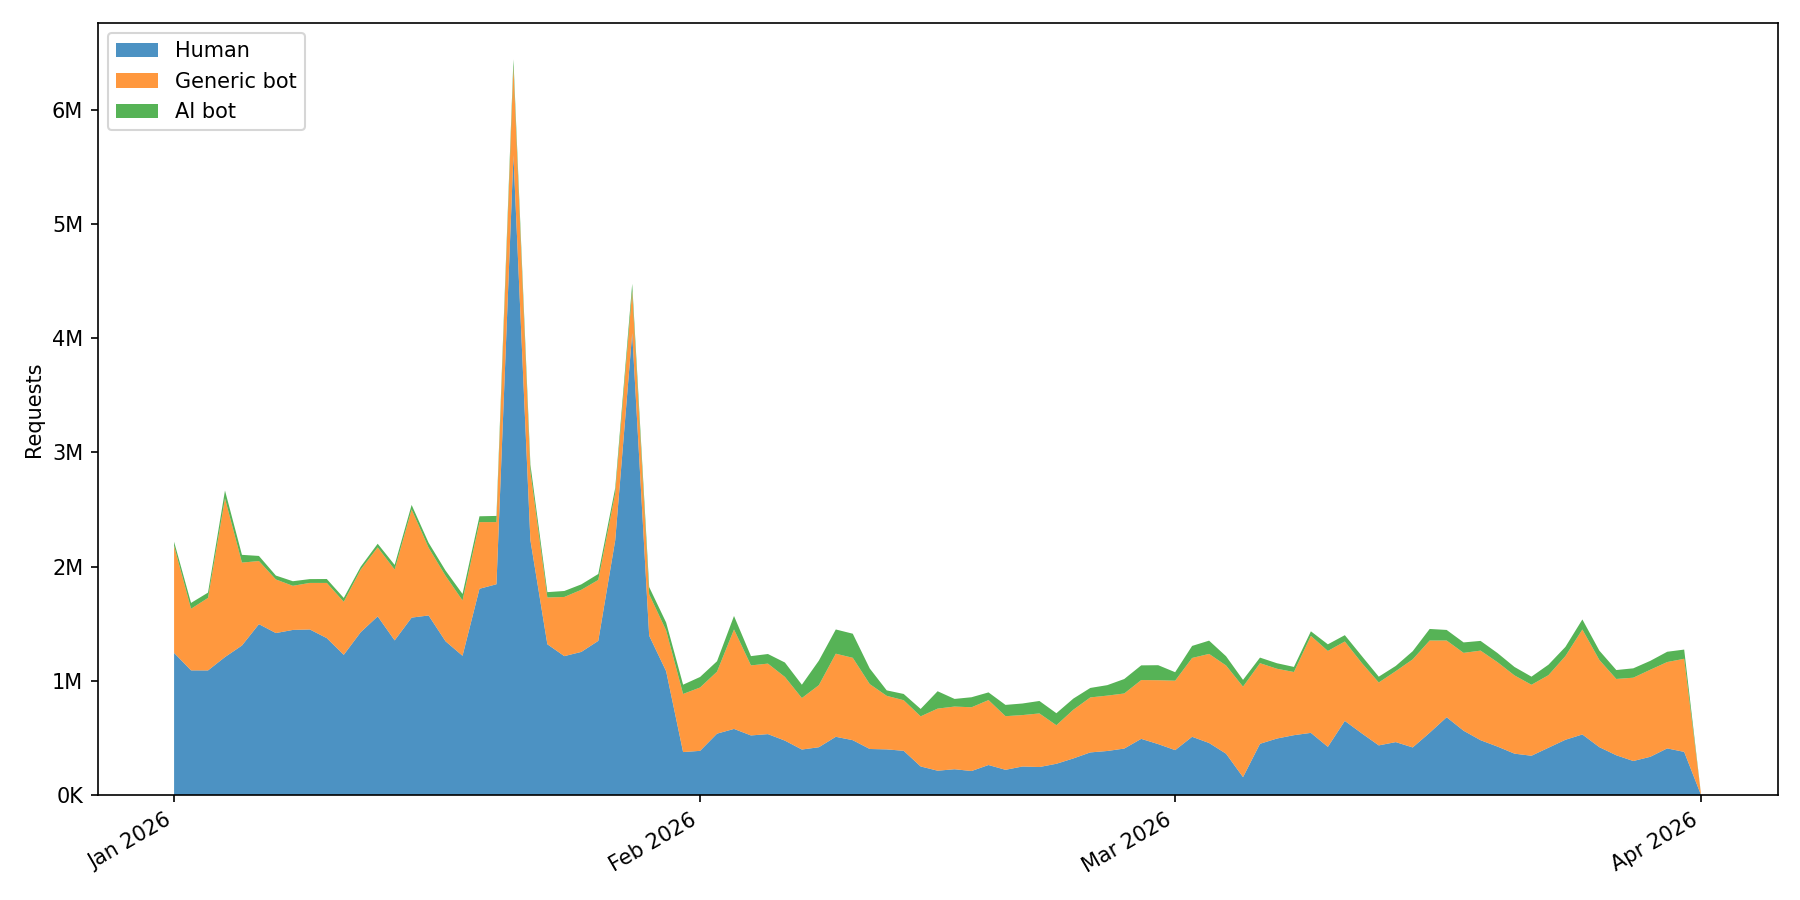
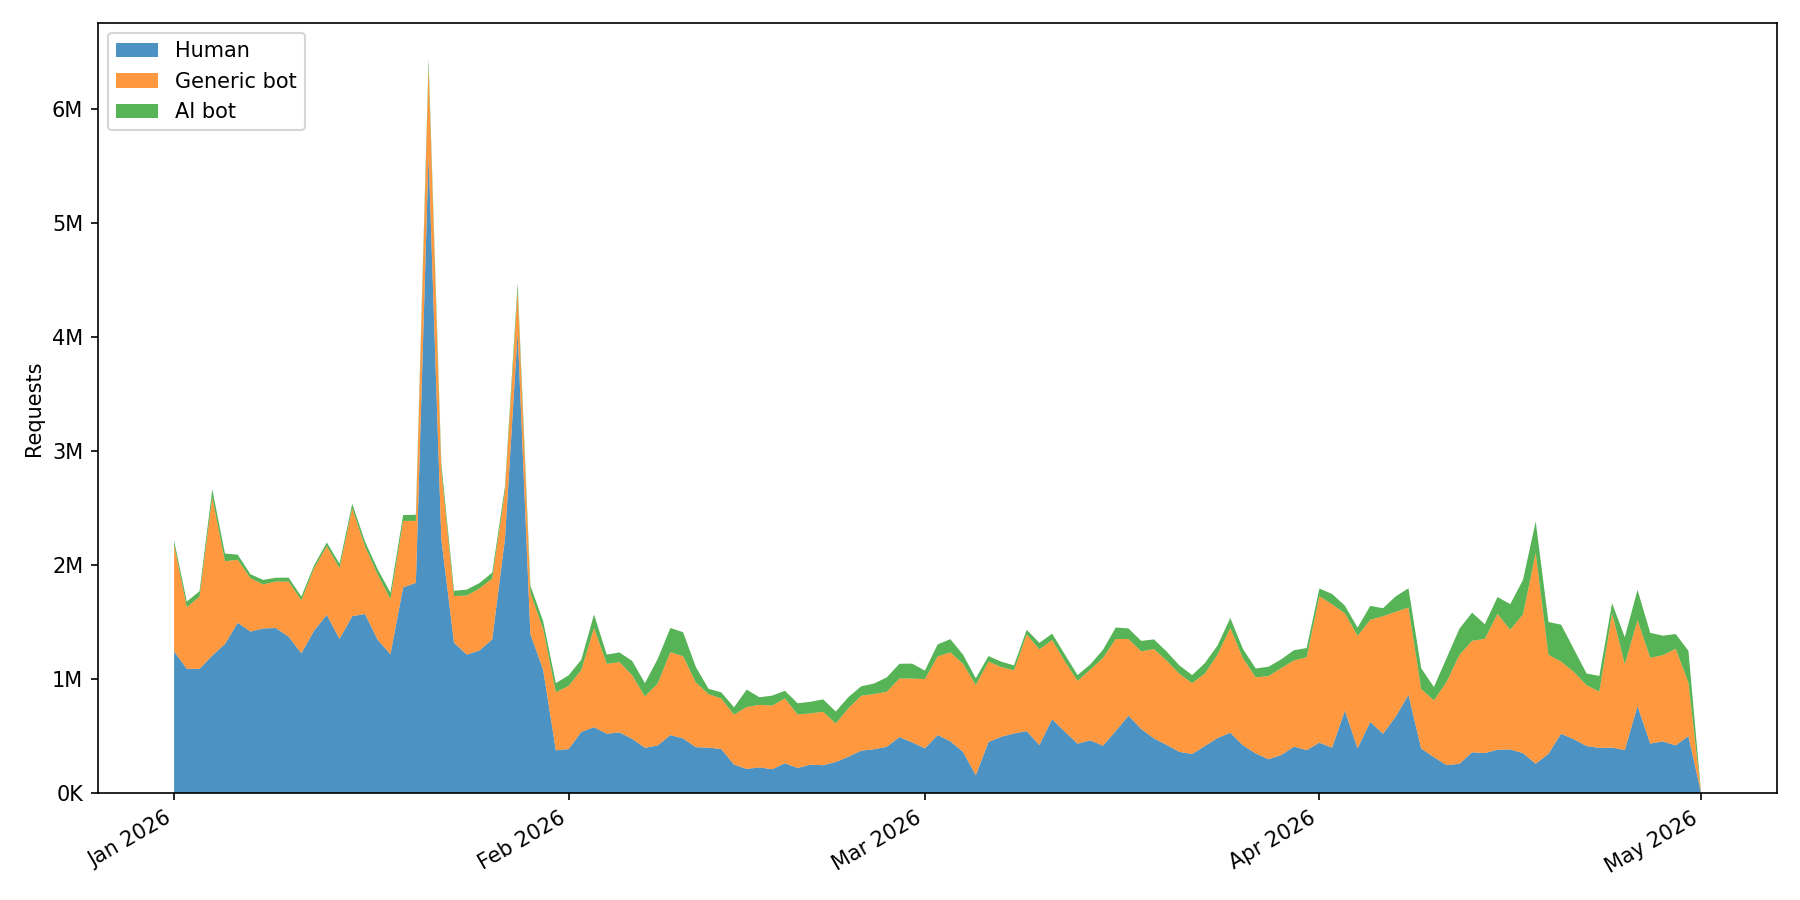
fix: validate date column with regex to reject misaligned rows

diff --git a/oc_botwatch/classify.py b/oc_botwatch/classify.py
@@ -8,8 +8,6 @@ import polars as pl
 logger = logging.getLogger(__name__)
 
 BASE_DIR = Path(__file__).resolve().parent.parent
-DATE_LEN = 10
-
 INPUT_DIR = BASE_DIR / "input"
 
 
@@ -46,8 +44,8 @@ def classify_traffic() -> pl.DataFrame:
 
     daily = (
         pl.concat(frames)
-        .with_columns(pl.col("date").str.slice(0, DATE_LEN).alias("date"))
-        .filter(pl.col("date").str.len_chars() == DATE_LEN)
+        .with_columns(pl.col("date").str.slice(0, 10).alias("date"))
+        .filter(pl.col("date").str.contains(r"^\d{4}-\d{2}-\d{2}$"))
         .with_columns(
             pl.when(pl.col("user_agent").str.contains(ai_pat))
             .then(pl.lit("ai_bot"))